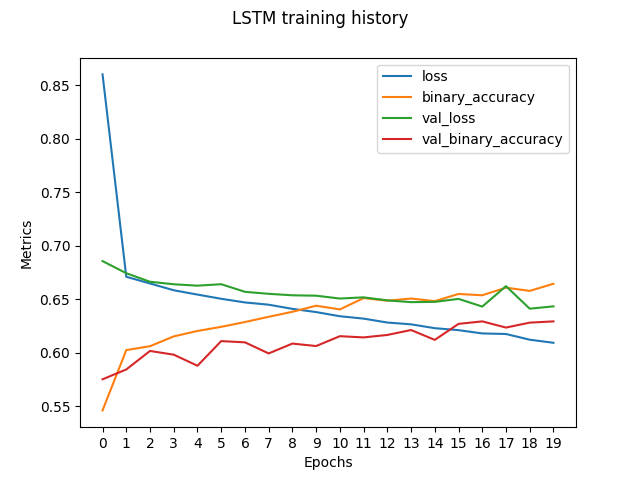
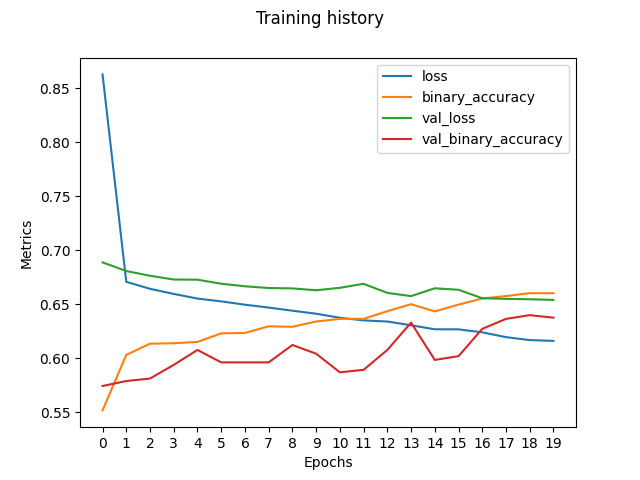
another section in blog

diff --git a/blog/quarto_blog.html b/blog/quarto_blog.html
@@ -207,10 +207,11 @@ ul.task-list li input[type="checkbox"] {
 <section id="predicting-stock-market-moves" class="level1">
 <h1>Predicting Stock Market Moves</h1>
 <p>The aspiration of using machine learning to predict the stock market’s profitability may sound like the quest for a financial Holy Grail. However, it’s a question that has intrigued investors and data scientists alike: “Can you become a billionaire with ML?” The goal here is to harness the power of machine learning to predict whether the stock market will be profitable in a certain number of future periods, and the “certain number” is something we can tune according to our preferences. This is achieved through a binary classification approach, where for each trading day, the model attempts to predict whether the price at a specified future time will be higher than the current price (1) or not (0). For our analysis we focused mostly on the prediction of the <strong>S&amp;P 500</strong> (ticker: SPY), the index that comprises the major US stocks weighted by capitalization.</p>
-<section id="data-augmentation" class="level2">
-<h2 class="anchored" data-anchor-id="data-augmentation">Data Augmentation</h2>
+<section id="data-augmentation-and-preparation" class="level2">
+<h2 class="anchored" data-anchor-id="data-augmentation-and-preparation">Data Augmentation and preparation</h2>
 <p>The success of a machine learning model depends on the quality and quantity of data. We make use of a dataset that encompasses 9 out of the 11 major market sector indices, along with other key US macroeconomic data. To enhance the dataset’s information content and provide our algorithms with a richer context, we employ data augmentation. Beforetraining our algorithms, we apply several transformations to the dataset. One of these enhancements involves calculating the relative strength between different market indices. This provides a deeper understanding of the interplay between various sectors within the stock market. We also compute various Simple Moving Averages (SMA) at different timeframes, including 20, 50, and 200 periods. These SMA values offer insights into the trend and momentum of stock prices, which are crucial factors in stock market predictions.</p>
 <p>Furthermore, we incorporate calculations of relative returns, which give us an idea of how individual assets or sectors are performing concerning broader market movements. All these augmented features aim to better capture the underlying patterns and relationships within the stock market.</p>
+<p>Two additional steps can be performed on the enriched data, optionally: re-sampling to a different frequency (e.g.&nbsp;monthly or weekly periods), and standardization, in which the data is normalized to have 0 mean and unit variance, which should have a regularizing effect on training.</p>
 <p>Finally, the dataset is split in two sets: one for training, that goes from the beginning of out collected historical data (from 1998) until the end of 2021; and another for testing, which cover the recent history from 2022 until today.</p>
 </section>
 <section id="metrics" class="level2">
@@ -253,6 +254,37 @@ ul.task-list li input[type="checkbox"] {
 </div>
 </div>
 <p>On the training set, the confusion matrix indicates a slight bias towards false negatives. This means that the model might be missing some profitable opportunities, but it maintains a high level of accuracy. With an accuracy of approximately 82%, the model outperforms a simple dummy model, achieving an F1 score of around 0.86. The recall, measuring the model’s ability to identify positive returns, is approximately 0.90, while precision, gauging its accuracy in predicting positive returns, stands at around 0.83.</p>
+<table class="table-striped table-hover table">
+<caption>XGBoost model evaluation results</caption>
+<thead>
+<tr class="header">
+<th>Dataset</th>
+<th>Dummy Accuracy</th>
+<th>Accuracy</th>
+<th>F1 Score</th>
+<th>Recall</th>
+<th>Precision</th>
+</tr>
+</thead>
+<tbody>
+<tr class="odd">
+<td>Train</td>
+<td>0.61</td>
+<td>0.82</td>
+<td>0.86</td>
+<td>0.89</td>
+<td>0.82</td>
+</tr>
+<tr class="even">
+<td>Test</td>
+<td>0.47</td>
+<td>0.46</td>
+<td>0.63</td>
+<td>0.97</td>
+<td>0.47</td>
+</tr>
+</tbody>
+</table>
 <p>On the test set, a similar trend is observed, with a slight bias towards false negatives. The accuracy on the test set is around 46%, which is disappointingly comparable with the dummy model. This suggests that the model is failing to generalize, and any prediction is not better than a random guess.</p>
 </section>
 <section id="mlp" class="level3">
@@ -269,6 +301,37 @@ ul.task-list li input[type="checkbox"] {
 </div>
 </div>
 <p>On the training set, the confusion matrix shows a balanced distribution of false positives and false negatives. This suggests that the model is achieving a compromise between correctly identifying positive and negative returns. The accuracy on the training set is approximately 73%, which is better than a simple dummy model. The F1 score is about 0.80, indicating a balance between precision and recall. The recall, measuring the model’s ability to identify positive returns, is approximately 0.86, while precision, measuring the accuracy of positive predictions, stands at around 0.74.</p>
+<table class="table-striped table-hover table">
+<caption>MLP model evaluation results</caption>
+<thead>
+<tr class="header">
+<th>Dataset</th>
+<th>Dummy Accuracy</th>
+<th>Accuracy</th>
+<th>F1 Score</th>
+<th>Recall</th>
+<th>Precision</th>
+</tr>
+</thead>
+<tbody>
+<tr class="odd">
+<td>Train</td>
+<td>0.61</td>
+<td>0.73</td>
+<td>0.79</td>
+<td>0.85</td>
+<td>0.74</td>
+</tr>
+<tr class="even">
+<td>Test</td>
+<td>0.47</td>
+<td>0.47</td>
+<td>0.41</td>
+<td>0.37</td>
+<td>0.46</td>
+</tr>
+</tbody>
+</table>
 <p>Unfortunately, the result on the test set is similar to the one produced by XGBoost. No better than a random guess.</p>
 </section>
 <section id="lstmgru" class="level3">
@@ -290,8 +353,39 @@ ul.task-list li input[type="checkbox"] {
 </div>
 </div>
 </div>
-<p>On the training set, the confusion matrix indicates a heavy bias towards false negatives. This means that the model is more prone to missing profitable opportunities, resulting in a higher recall at the expense of precision. The binary accuracy on the training set is approximately 65%, indicating that the model outperforms a simple dummy model, even if slightly. The F1 score is about 0.73.</p>
-<p>Again, the binary accuracy on the test set is approximately 47%, which is not significantly better than random guessing.</p>
+<p>On the training set, the confusion matrix indicates a heavy bias towards false negatives. This means that the model is more prone to missing profitable opportunities, resulting in a higher recall at the expense of precision. The binary accuracy on the training set is approximately 64%, indicating that the model outperforms a simple dummy model, even if slightly. The F1 score is about 0.73.</p>
+<table class="table-striped table-hover table">
+<caption>LSTM model evaluation results</caption>
+<thead>
+<tr class="header">
+<th>Dataset</th>
+<th>Dummy Accuracy</th>
+<th>Accuracy</th>
+<th>F1 Score</th>
+<th>Recall</th>
+<th>Precision</th>
+</tr>
+</thead>
+<tbody>
+<tr class="odd">
+<td>Train</td>
+<td>0.61</td>
+<td>0.64</td>
+<td>0.73</td>
+<td>0.82</td>
+<td>0.66</td>
+</tr>
+<tr class="even">
+<td>Test</td>
+<td>0.47</td>
+<td>0.44</td>
+<td>0.43</td>
+<td>0.43</td>
+<td>0.42</td>
+</tr>
+</tbody>
+</table>
+<p>Again, the binary accuracy on the test set is approximately 44%, which is not significantly better than random guessing.</p>
 </section>
 </section>
 <section id="overall-results" class="level2">
@@ -300,9 +394,20 @@ ul.task-list li input[type="checkbox"] {
 <p>The accuracy on the test set was generally quite high, indicating that our models were proficient at making predictions based on the training data. However, there was a catch – a rather significant one. All the algorithms displayed a tendency to overfit the data. In practical terms, this means that when we applied these models to predict on the test dataset, their accuracy wasn’t substantially better than what we could achieve with a simple, naive model that doesn’t consider the complexities of the stock market (basically, no better than a random guess).</p>
 <p>This overfitting issue raises concerns about the robustness and real-world applicability of our models. While they seem to master the training data, they struggle to generalize their predictions beyond that, which is a common pitfall in machine learning. It emphasizes the importance of being cautious when interpreting the accuracy metrics alone. Successful application in the financial world necessitates not just high accuracy during training but the ability to adapt to unforeseen market dynamics and make profitable decisions. It’s a reminder that stock market prediction, even with the aid of ML, remains a complex and challenging endeavor. So, for now, we discourage the ML practitioners to take that multimillion loan for purchasing a Lamborghini.</p>
 </section>
+<section id="so-is-it-over" class="level2">
+<h2 class="anchored" data-anchor-id="so-is-it-over">So… Is it over?</h2>
+<p>No! There are many things that can be done to improve the models. We believe that the features in our dataset confused the models, because they are heavily correlated. So the first thing to try would be to change the type of augmentation and features included in the training dataset. A good strategy would be to train several models with different sets of features, and then merge the features that yield to an improved accuracy. Another low-hanging possible improvement is increasing the number of epochs (for the deep learning models based on backpropagation), or number of iterations, plus doing more hyperparameter tuning. There is evidence in the literature<a href="#fn1" class="footnote-ref" id="fnref1" role="doc-noteref"><sup>1</sup></a> that Deep Learning models can be used to get a small probabilistic advantage at predicting profit opportunitues, that are significantly better than random choice, even if the margin is just of a mere 54% accuracy on unseen data<a href="#fn2" class="footnote-ref" id="fnref2" role="doc-noteref"><sup>2</sup></a>.</p>
+</section>
 </section>
 
-</main>
+
+<div id="quarto-appendix" class="default"><section id="footnotes" class="footnotes footnotes-end-of-document" role="doc-endnotes"><h2 class="anchored quarto-appendix-heading">Footnotes</h2>
+
+<ol>
+<li id="fn1"><p>Mahinda Mailagaha Kumbure, Christoph Lohrmann, Pasi Luukka, Jari Porras, Machine learning techniques and data for stock market forecasting: A literature review, <a href="https://doi.org/10.1016/j.eswa.2022.116659">https://doi.org/10.1016/j.eswa.2022.116659</a><a href="#fnref1" class="footnote-back" role="doc-backlink">↩</a></p></li>
+<li id="fn2"><p>S. Kim, S. Ku, W. Chang and J. W. Song, “Predicting the Direction of US Stock Prices Using Effective Transfer Entropy and Machine Learning Techniques” <a href="https://ieeexplore.ieee.org/document/9119388">https://ieeexplore.ieee.org/document/9119388</a><a href="#fnref2" class="footnote-back" role="doc-backlink">↩</a></p></li>
+</ol>
+</section></div></main>
 <!-- /main column -->
 <script id="quarto-html-after-body" type="application/javascript">
 window.document.addEventListener("DOMContentLoaded", function (event) {

diff --git a/ml/lstm_pipeline.py b/ml/lstm_pipeline.py
@@ -21,7 +21,7 @@ from ml.common_ml import calculate_accuracy
 # https://stackoverflow.com/questions/69906416/forecast-future-values-with-lstm-in-python
 # https://charlieoneill.medium.com/predicting-the-price-of-bitcoin-with-multivariate-pytorch-lstms-695bc294130
 
-_OUT_PATH = Path("out/lstm")
+_OUT_PATH = Path("out/lstm2")
 _SEED = 666
 _N_STEPS = 20
 _BATCHES = 64
@@ -138,7 +138,7 @@ def save_result(train_data: LstmResultData, test_data: LstmResultData, history: 
     plt.xlabel("Epochs")
     plt.ylabel("Metrics")
     plt.xticks(history.epoch)
-    plt.suptitle("LSTM training history")
+    plt.suptitle("Training history")
     plt.savefig(_OUT_PATH / "gru_history.png")
 
     x_train, x_test, y_train, y_test = _split_train_test(split)

diff --git a/ml/super_duper_ai.py b/ml/super_duper_ai.py
@@ -12,15 +12,15 @@ _INDICES = ["SPY", "XLE", "XLY", "XLF", "XLV", "XLI", "XLK", "XLB", "XLU", "XLP"
 
 
 def run_pipelines(dataset: pd.DataFrame) -> pd.DataFrame:
-    predict_feature = "XLP"
+    predict_feature = "SPY"
     predict_ahead = 10
     data_enriched = _preprocess_data(dataset, predict_feature, predict_ahead, scale=True)
     y_target = _make_target(data_enriched, predict_feature, periods_difference=predict_ahead)
 
-    _do_xgb(data_enriched, y_target)
-    print()
+    #_do_xgb(data_enriched, y_target)
+    # print()
     _do_mlp(data_enriched, y_target)
-    print()
+    # print()
     _do_lstm(data_enriched, y_target)
 
     # Return empty result for now.
